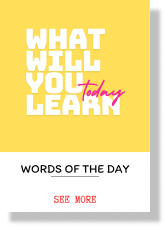
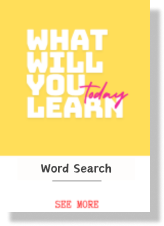
update main page

Changed region(s): [[0.1524, 0.1239, 0.7927, 0.5265], [0.0, 0.0, 0.9146, 0.8053], [0.3049, 0.8363, 0.6098, 0.9292]]

diff --git a/src/mainPage.cpp b/src/mainPage.cpp
@@ -7,42 +7,17 @@ mainPage::mainPage(wxWindow* parent, int& dicTypeIt, int& searchTypeIt, std::str
 	this->dic = dic;
 	this->SA = SA;
 
-	suggestionBox = new SuggestionListBox(this, dic, SA, dicTypeIt, searchTypeIt, wxSize(633, 33));
-	suggestionBox->suggest->SetSize(633, 165);
-
 	this->SetBackgroundColour(wxColor("#38435A"));
 
-	setControls(dicTypeIt, searchTypeIt);
+	wxPanel* main = new wxPanel(this, wxID_ANY);
+
+	setControls(dicTypeIt, searchTypeIt, main);
 
 	wxBoxSizer* mainSizer = new wxBoxSizer(wxVERTICAL);
 
-	wxBoxSizer* topSizer = new wxBoxSizer(wxHORIZONTAL);
-
-	topSizer->Add(addButton, 0, wxEXPAND | wxALL, 23);
-	topSizer->Add(origin, 0, wxEXPAND | wxALL, 23);
-
-	wxBoxSizer* temp = new wxBoxSizer(wxVERTICAL);
-	temp->Add(list, 0, wxALIGN_RIGHT | wxALL, 23);
-
-	topSizer->Add(temp, 1, wxALIGN_BOTTOM | wxALL, 23);
-
-	mainSizer->Add(topSizer, 0, wxEXPAND);
-
-	mainSizer->AddSpacer(35);
+	mainSizer->Add(banner, 0, wxALIGN_CENTER);
 	mainSizer->Add(name, 0, wxALIGN_CENTER);
 
-	// Create a horizontal sizer for the search bar
-	wxBoxSizer* searchSizer = new wxBoxSizer(wxHORIZONTAL);
-
-
-	// Add search input and button to the search sizer
-	searchSizer->Add(suggestionBox, 1, wxALIGN_CENTER, 10);
-	searchSizer->AddSpacer(10);
-	searchSizer->Add(searchButton, 0, wxALIGN_CENTER, 10);
-
-	mainSizer->Add(searchSizer, 0, wxALIGN_CENTER);
-
-	mainSizer->AddSpacer(10);
 
 	wxBoxSizer* botSizer = new wxBoxSizer(wxHORIZONTAL);
 
@@ -65,82 +40,51 @@ mainPage::mainPage(wxWindow* parent, int& dicTypeIt, int& searchTypeIt, std::str
 	// Add the searchSizer to the mainSizer
 
 	mainSizer->Add(botSizer, 1, wxEXPAND | wxTOP, 95);
-	mainSizer->AddSpacer(20);
 
-	this->SetSizerAndFit(mainSizer);
+	main->SetSizer(mainSizer);
 
-	Bind(wxEVT_TEXT, &mainPage::OnTextChange, this, suggestionBox->searchInput->GetId());
-	addButton->Bind(wxEVT_BUTTON, &mainPage::OnAdding, this);
+	wxBoxSizer* all = new wxBoxSizer(wxVERTICAL);
+
+	all->Add(main, 0, wxALIGN_CENTER | wxTOP, 30);
+
+	this->SetSizer(all);
+
 
 }
 
-void mainPage::OnButtonClicked(wxCommandEvent& event)
-{
-	wxCommandEvent evt(wxEVT_COMMAND_BUTTON_CLICKED, wxID_ANY);
-	evt.SetEventObject(this);
-	wxPostEvent(GetParent(), evt);
-}
 
-void mainPage::setControls(int& dicTypeIt, int& searchTypeIt)
+void mainPage::setControls(int& dicTypeIt, int& searchTypeIt, wxPanel* panel)
 {
 	// Create the search input field
 		// Create the search button
-	wxFont font(14, wxFONTFAMILY_DEFAULT, wxFONTSTYLE_NORMAL, wxFONTWEIGHT_NORMAL, false, "Varela Round");
 
-
-
-	searchButton = new wxButton(this, wxID_ANY, "Search", wxDefaultPosition, wxSize(50, 33), wxNO_BORDER);
-	searchButton->SetFont(font);
-	searchButton->SetBackgroundColour("#FF4F70");
-	searchButton->SetForegroundColour(wxColour("#FFFFFF"));
 
 	// Tạo wxBitmap từ file ảnh
 	wxBitmap bmHistory(wxT("../../../../picture/search history.png"), wxBITMAP_TYPE_PNG);
 	wxBitmap bmRandom(wxT("../../../../picture/random word.png"), wxBITMAP_TYPE_PNG);
 	wxBitmap bmFavWords(wxT("../../../../picture/favorite words.png"), wxBITMAP_TYPE_PNG);
 	wxBitmap bmWordGames(wxT("../../../../picture/word games.png"), wxBITMAP_TYPE_PNG);
+	wxBitmap bmBanner(wxT("../../../../picture/TPHANG Banner.png"), wxBITMAP_TYPE_PNG);
 
+	banner = new wxStaticBitmap(panel, wxID_ANY, bmBanner);
 
 
 	// Tạo wxBitmapButton
-	history = new wxBitmapButton(this, wxID_ANY, bmHistory, wxDefaultPosition, wxDefaultSize);
-	Random = new wxBitmapButton(this, wxID_ANY, bmRandom, wxDefaultPosition, wxDefaultSize, wxNO_BORDER);
-	FavWords = new wxBitmapButton(this, wxID_ANY, bmFavWords, wxDefaultPosition, wxDefaultSize, wxNO_BORDER);
-	WordGames = new wxBitmapButton(this, wxID_ANY, bmWordGames, wxDefaultPosition, wxDefaultSize, wxNO_BORDER);
+	history = new wxBitmapButton(panel, wxID_ANY, bmHistory, wxDefaultPosition, wxDefaultSize, wxNO_BORDER);
+	Random = new wxBitmapButton(panel, wxID_ANY, bmRandom, wxDefaultPosition, wxDefaultSize, wxNO_BORDER);
+	FavWords = new wxBitmapButton(panel, wxID_ANY, bmFavWords, wxDefaultPosition, wxDefaultSize, wxNO_BORDER);
+	WordGames = new wxBitmapButton(panel, wxID_ANY, bmWordGames, wxDefaultPosition, wxDefaultSize, wxNO_BORDER);
 
 	history->SetBackgroundColour("#38435A");
 	Random->SetBackgroundColour("#38435A");
 	FavWords->SetBackgroundColour("#38435A");
 	WordGames->SetBackgroundColour("#38435A");
 
-
-	list = new dicType(this, dicTypeIt);
-
-	wxBitmap bmAddButton(wxT("../../../../picture/addButton.png"), wxBITMAP_TYPE_PNG);
-	wxBitmap bmOrigin(wxT("../../../../picture/origin.png"), wxBITMAP_TYPE_PNG);
-
-	addButton = new wxBitmapButton(this, wxID_ANY, bmAddButton, wxDefaultPosition, wxDefaultSize, wxNO_BORDER);
-	origin = new wxBitmapButton(this, wxID_ANY, bmOrigin, wxDefaultPosition, wxDefaultSize, wxNO_BORDER);
-
-	addButton->SetBackgroundColour("#38435A");
-	origin->SetBackgroundColour("#38435A");
-
 	wxBitmap tPDic(wxT("../../../../picture/TPHANG DICTIONARY.png"), wxBITMAP_TYPE_PNG);
-	name = new wxBitmapButton(this, wxID_ANY, tPDic, wxDefaultPosition, wxSize(884, 147), wxNO_BORDER);
+	name = new wxBitmapButton(panel, wxID_ANY, tPDic, wxDefaultPosition, wxSize(884, 147), wxNO_BORDER);
 	name->SetBackgroundColour("#38435A");
 
 
-}
-
-void mainPage::OnTextChange(wxCommandEvent& event) {
-	wxString prefix = suggestionBox->searchInput->GetValue();
-	suggestionBox->UpdateSuggestions(prefix);
-}
-
-void mainPage::OnAdding(wxCommandEvent& event)
-{
-	addDialog dialog(this, "Adding Dialog");
-	dialog.ShowModal();
 }
 
 

diff --git a/src/mainPage.h b/src/mainPage.h
@@ -9,31 +9,22 @@
 class mainPage : public wxWindow {
 public:
 
-	wxBitmapButton* origin;
-	wxBitmapButton* addButton;
+	wxStaticBitmap* banner;
+
 	wxBitmapButton* history;
 	wxBitmapButton* Random;
 	wxBitmapButton* FavWords;
 	wxBitmapButton* WordGames;
 
 	wxBitmapButton* name;
-	SuggestionListBox* suggestionBox;
-
-	wxButton* searchButton;
-
-	dicType* list;
-
 
 	mainPage(wxWindow* parent, int& dicTypeInt, int& searchType, std::string& searchWord, std::vector<TST>& dic, std::vector<SuffixArray>& SA);
-	void OnButtonClicked(wxCommandEvent& event);
 
 
 private:
 	std::vector<TST>  dic;
 	std::vector<SuffixArray> SA;
-	void setControls(int& dicTypeIt, int& searchTypeIt);
-	void OnTextChange(wxCommandEvent& event);
-	void OnAdding(wxCommandEvent& event);
+	void setControls(int& dicTypeIt, int& searchTypeIt, wxPanel* panel);
 };
 
 

diff --git a/src/frame.cpp b/src/frame.cpp
@@ -31,7 +31,6 @@ frame::frame() : wxFrame(NULL, wxID_ANY, "wxSimplebook Example")
 	this->SetSizerAndFit(sizer);
 
 	home->Random->Bind(wxEVT_BUTTON, &frame::switchToSearch, this);
-	home->searchButton->Bind(wxEVT_BUTTON, &frame::switchToSearch, this);
 	home->history->Bind(wxEVT_BUTTON, &frame::switchToHis, this);
 	home->FavWords->Bind(wxEVT_BUTTON, &frame::switchToFav, this);
 	home->WordGames->Bind(wxEVT_BUTTON, &frame::switchToGame, this);
